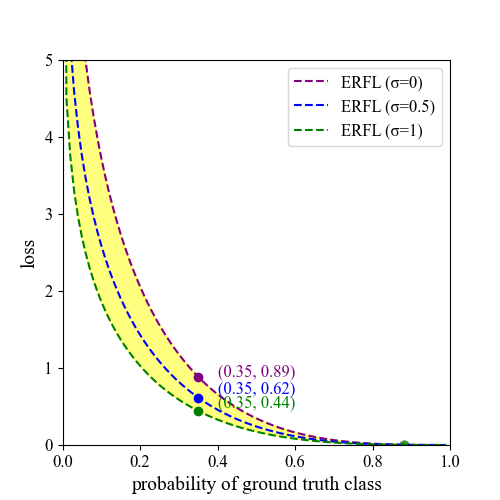
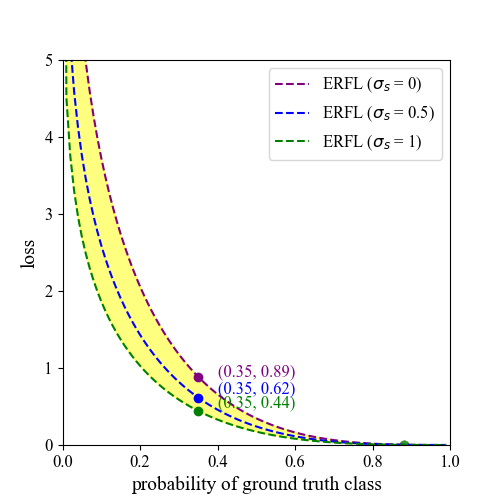
-
-

Changed region(s): [[0.57, 0.15, 0.87, 0.3]]

diff --git a/image_task/image_preprocessing/my_function.py b/image_task/image_preprocessing/my_function.py
@@ -203,9 +203,9 @@ plt.rcParams['font.size'] = 12 # 개별적용 - plt.yticks(fontsize=20)
 ax.set_xlim([0.0, 1.0])
 ax.set_ylim([0.0, 5])
 
-ax.plot(x, erfl_sig1, c='purple', linestyle='dashed', label='ERFL (σ=0)')
-ax.plot(x, erfl_sig3, c='blue', linestyle='dashed', label='ERFL (σ=0.5)')
-ax.plot(x, erfl_sig2, c='green', linestyle='dashed', label='ERFL (σ=1)')
+ax.plot(x, erfl_sig1, c='purple', linestyle='dashed', label=r'ERFL ($\sigma_s$ = 0)')
+ax.plot(x, erfl_sig3, c='blue', linestyle='dashed', label=r'ERFL ($\sigma_s$ = 0.5)')
+ax.plot(x, erfl_sig2, c='green', linestyle='dashed', label=r'ERFL ($\sigma_s$ = 1)')
 ax.fill_between(x, erfl_sig1, erfl_sig2, color='yellow', alpha=0.5)
 ax.scatter(p1, erfl_dot2, c="green")
 ax.scatter(p1, erfl_dot5, c="blue")
